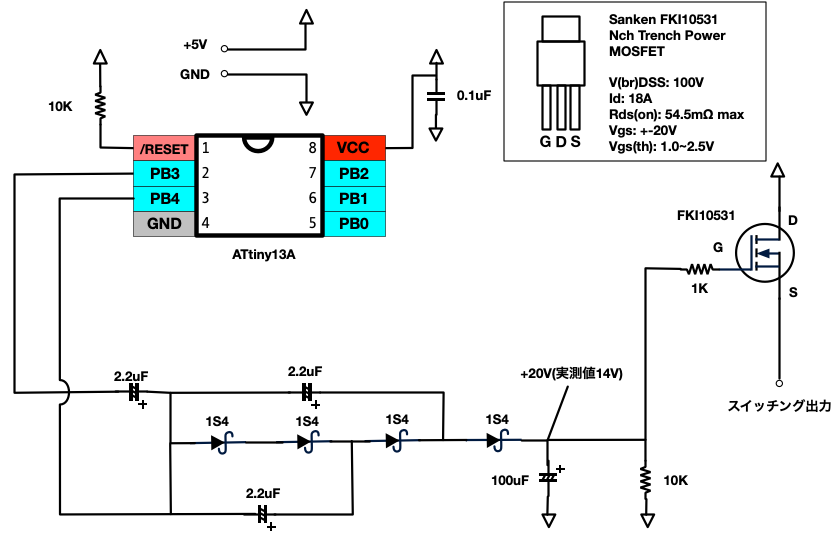
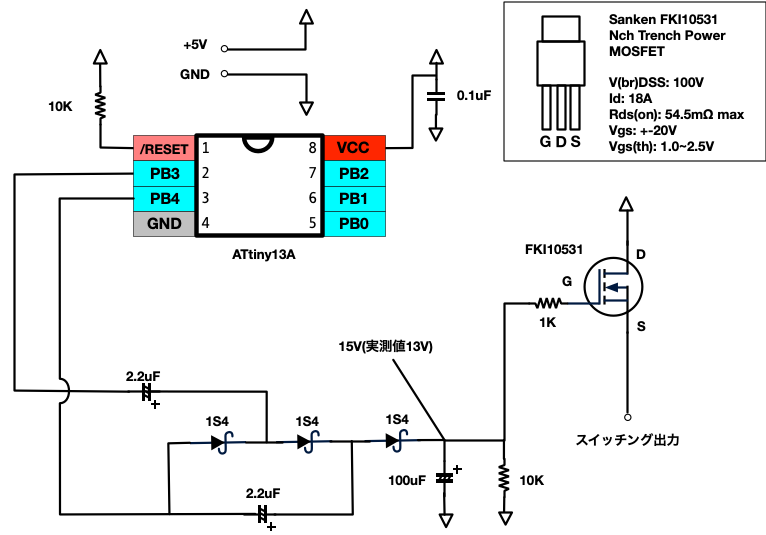
図とコメント修正

diff --git a/src/attiny13a/nch-mosfet-highside-swiching/main.c b/src/attiny13a/nch-mosfet-highside-swiching/main.c
@@ -4,8 +4,8 @@
 #include <avr/interrupt.h>
 #include <util/delay.h>
 
-// ISR(TIM0_OVF_vect) {
 ISR(TIM0_COMPA_vect) {
+	// 出力の反転
 	PORTB ^= (CP|CN);
 }
 
@@ -16,9 +16,11 @@ void init_timer(void) {
 	       | (1<<WGM01)|(0<<WGM00);
 	TCCR0B = (0<<WGM02);
 
-	TCCR0B |= (0<<CS02)|(1<<CS01)|(1<<CS00); // clkio/64
-	OCR0A=0x02; OCR0B=0x01; // 50Khz = 25KHz
+//	TCCR0B |= (0<<CS02)|(1<<CS01)|(1<<CS00); // clkio/64
+//	OCR0A=0x02; OCR0B=0x01; // 割込: 50KHz 出力: 25KHz
 
+	TCCR0B |= (0<<CS02)|(0<<CS01)|(1<<CS00); // clkio/1
+	OCR0A=0x4a; OCR0B=0x25; // 割込: 128KHz 出力: 64kHz	
 
 	// Timer/Counter Interrupt Mask Register
 	// OCIE0A: Timer/Counter0 Output Compare Match A Interrupt Enable
@@ -31,7 +33,6 @@ int main(void) {
 
 	CP_INIT; CN_INIT; LED_INIT;
 
-	// 個体差によって微調整が必要
 	OSCCAL=0x61;
 	init_timer();
 	sei();
@@ -39,19 +40,25 @@ int main(void) {
 	CP_H; CN_L; LED_L;
 
 	for(;;){
+
+		// チャージポンプOFF
 		TIMSK0 &=~ (1<<OCIE0A);
 		CP_L; CN_L; LED_L;
 
-		for(uint8_t i=0;i<5;i++) {
+		// 10秒待機
+		for(uint8_t i=0;i<10;i++) {
 			_delay_ms(1000);
 		}
 
+		// チャージポンプON
 		CP_H; CN_L; LED_H;
 		TIMSK0 |= (1<<OCIE0A);
 
+		// 10秒待機
 		for(uint8_t i=0;i<30;i++) {
 			_delay_ms(1000);
 		}
+
 	}
 	return 0;
 }

diff --git a/src/attiny13a/nch-mosfet-highside-swiching/README.md b/src/attiny13a/nch-mosfet-highside-swiching/README.md
@@ -1,6 +1,6 @@
 # Nch MOSFET ハイサイドスイッチング
 
-* ATtiny13Aで25KHzの矩形波とその反転を生成、チャージポンプで20Vを生成してNch MOSFETをハイサイドスイッチング
+* ATtiny13Aで64KHzの矩形波とその反転を生成、チャージポンプで15Vを生成してNch MOSFETをハイサイドスイッチング
 * ゲートの実測値は14V。FKI10531のデータシートのグラフから、Vgsは4Vあれば完全にOnになるようなので、5V+4V=9Vあればよいとおもう。
 * このプログラムでは、一定期間で間欠動作する。
 
